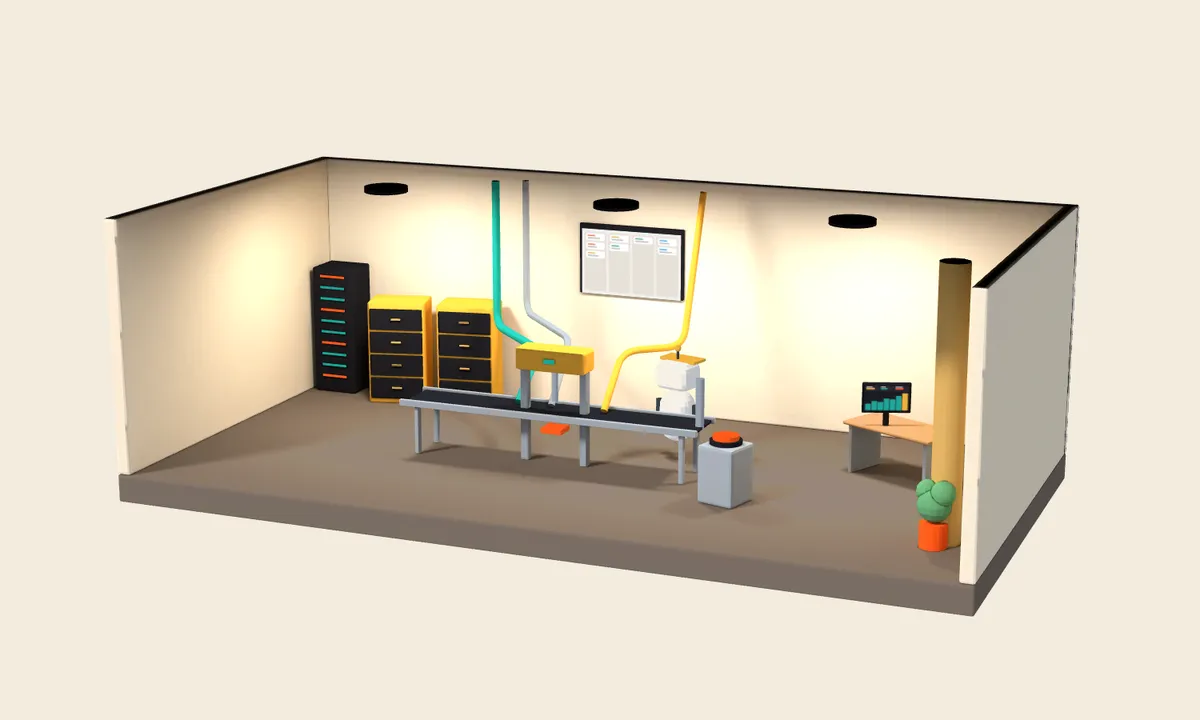
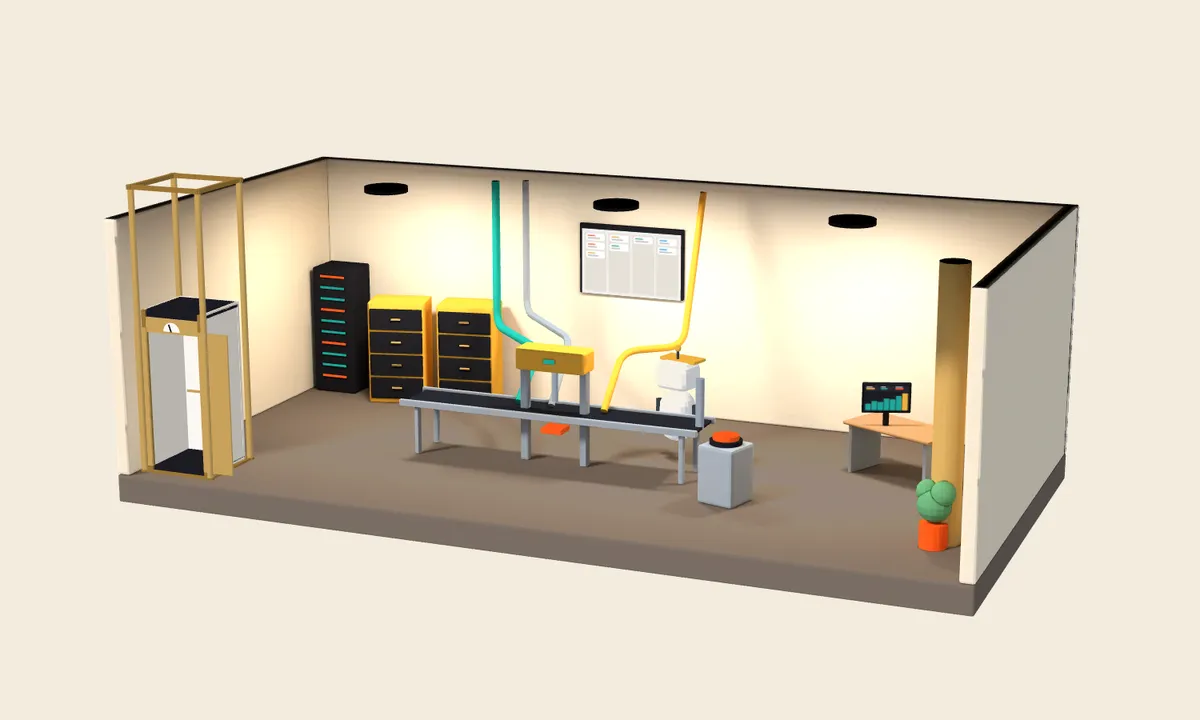
docs: record stage 3
Posters and the OG image reshot with the lift in every frame.

Changed region(s): [[0.0925, 0.2444, 0.2158, 0.6722]]

diff --git a/docs/plan/07-redesign.md b/docs/plan/07-redesign.md
@@ -1,6 +1,6 @@
 # План 07 — Редизайн «Башни»: лифт, этажи, люди, интерактив
 
-> **Статус: согласован (2026-10-12)** — вариант людей **B** (CC0-заготовки + перекраска фабрикой), лифт делается и в HTML, и в 3D, люди — в игрушечном стиле. Каждый этап раскрывается в пошаговый TDD-план по шаблону планов 01–02. Этап 0: `docs/plan/07a-fixes.md` (выполнен). Этап 1: `docs/plan/07b-html-layer.md` (выполнен). Этап 2: `docs/plan/07c-cast.md` (выполнен).
+> **Статус: согласован (2026-10-12)** — вариант людей **B** (CC0-заготовки + перекраска фабрикой), лифт делается и в HTML, и в 3D, люди — в игрушечном стиле. Каждый этап раскрывается в пошаговый TDD-план по шаблону планов 01–02. Этап 0: `docs/plan/07a-fixes.md` (выполнен). Этап 1: `docs/plan/07b-html-layer.md` (выполнен). Этап 2: `docs/plan/07c-cast.md` (выполнен). Этап 3: `docs/plan/07d-lift-and-interaction.md` (выполнен).
 >
 > Документ самодостаточный: его можно отдать любому AI-инструменту или разработчику. Опирается на `docs/01-brief.md` и `docs/02-implementation-plan.md` (контракты, раздел 3).
 
@@ -204,13 +204,15 @@
 
 ---
 
-## 6½. Найдено по ходу этапов 0–1
+## 6½. Найдено по ходу этапов 0–3
 
 | Что | Статус |
 |---|---|
 | `/api/book` принимал любое время и не требовал согласия на обработку ПД | исправлено (`fix(api): require consent…`) |
 | Пресеты калькулятора не совпадали с болями на крыше — предзаполнение работало только для «Теряем заявки» | исправлено |
 | Прямые ссылки `/#этаж` иногда вставали на 200–600 px ниже текста | исправлено (`src/ui/hash-anchor.ts`) |
+| По прямой ссылке камера иногда пролетала башню с крыши: якорь прокручивался уже после старта движка | исправлено — до «живого» кадра камера прыгает (`fix(engine): jump the camera until the stage is live`) |
+| 3D-хотспоты (рычаг, кнопка сделки…) не получали кликов: секции этажей перекрывали канвас, работали только кнопки-двойники в тексте | исправлено в этапе 3 — указатель проходит к сцене вне карточек текста |
 | **Живого агента на Claude нет:** `/api/chat` отвечает только сценарием (`api/src/agent/scripted.ts`), нет вызова Anthropic API, инструментов, учёта токенов и потолка расходов | **открыто** — нужен отдельный план (детали в мастер-плане, раздел 5, план 05) и ключ API |
 | Команда в 3D (`art/team.json`: Аман, Данияр — фронтенд и 3D, Алихан — CRM) не совпадает с текстом сайта (`src/i18n`: Аман, Данияр — CRM и бэкенд, Артём — интерфейсы и 3D) | **открыто** — нужен ответ студии до этапа 2 |
 

diff --git a/docs/plan/07d-lift-and-interaction.md b/docs/plan/07d-lift-and-interaction.md
@@ -96,4 +96,4 @@
 
 ### Task 7: Визуальный прогон и документация
 
-- [ ] Скриншоты всех этажей (телефон, десктоп) с лифтом; постеры `pnpm posters`; `docs/plan/07-redesign.md` — статус этапа 3. Commit: `docs: record stage 3`.
+- [x] Скриншоты всех этажей (телефон, десктоп) с лифтом; постеры `pnpm posters`; `docs/plan/07-redesign.md` — статус этапа 3. Commit: `docs: record stage 3`.
